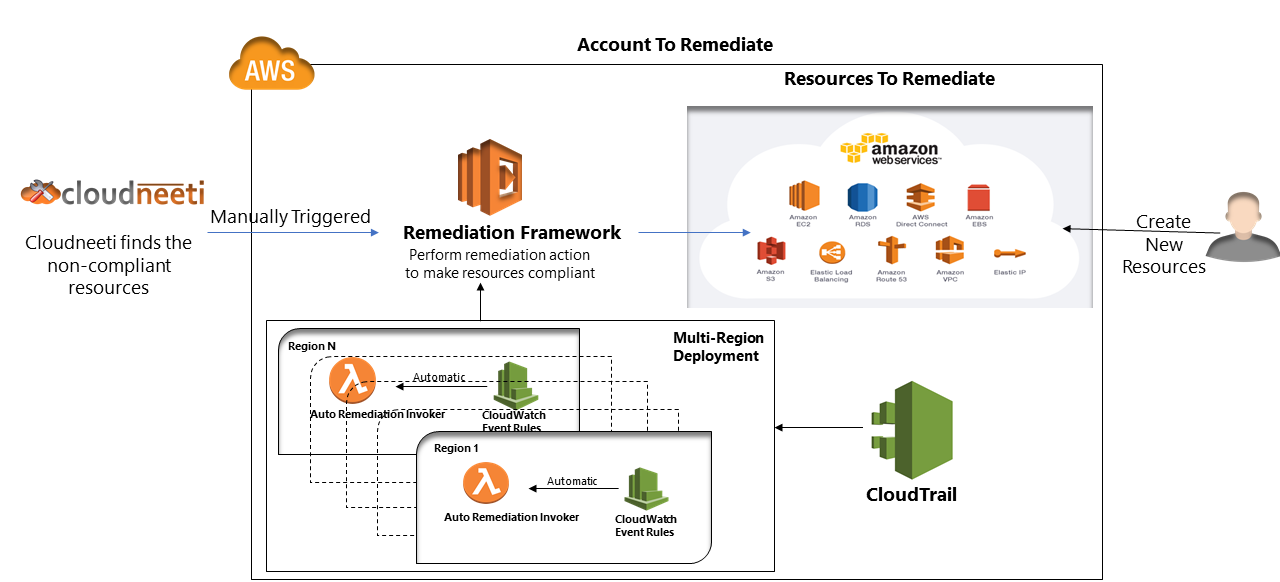
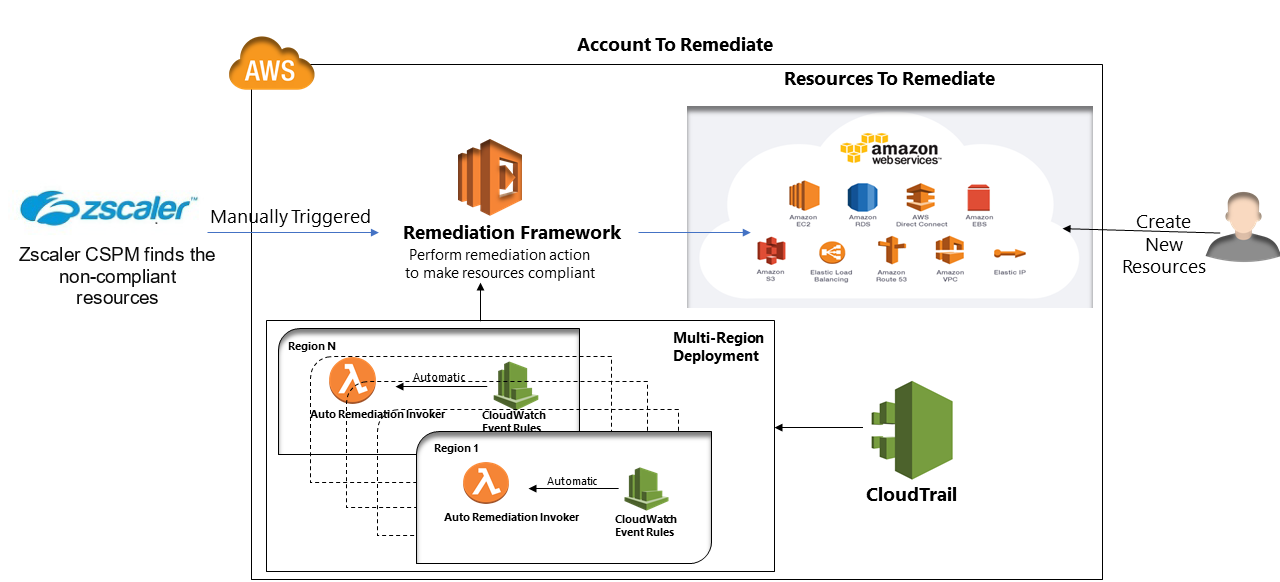
Updated architecture diagram and ZCSPM images

Changed region(s): [[0.0, 0.3093, 0.1875, 0.5258]]

diff --git a/README.md b/README.md
@@ -146,7 +146,7 @@ On ZCSPM you need to have AWS account on-boarded.
 2. Go to settings and click on “Configure Account Remediation”
 3. Change Remediation State to enable and enter AWS account id in which remediation framework deployed using earlier steps.
 
-   ![configure-cloudneeti-remediation.png](images/configure-cloudneeti-remediation.png)
+   ![configur-zcspm-remediation.png](images/configure-zcspm-remediation.png)
 
 ### Enable Remediation Policies
 After configuring remediation settings, enable the remediation policies on ZCSPM portal.
